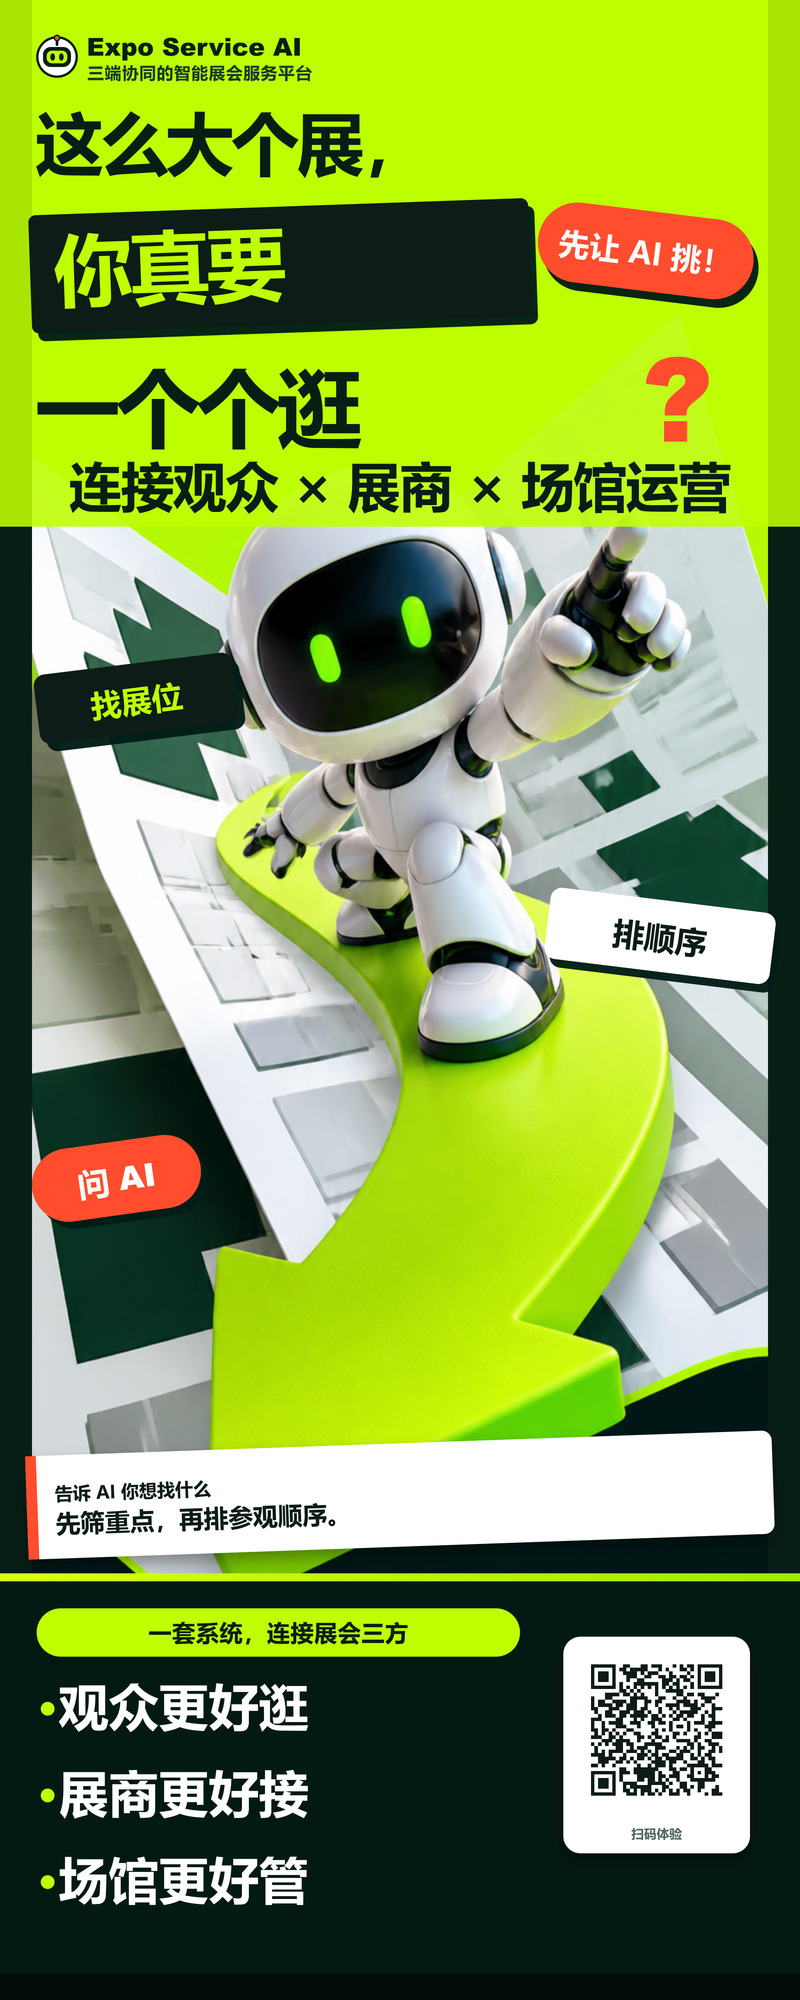
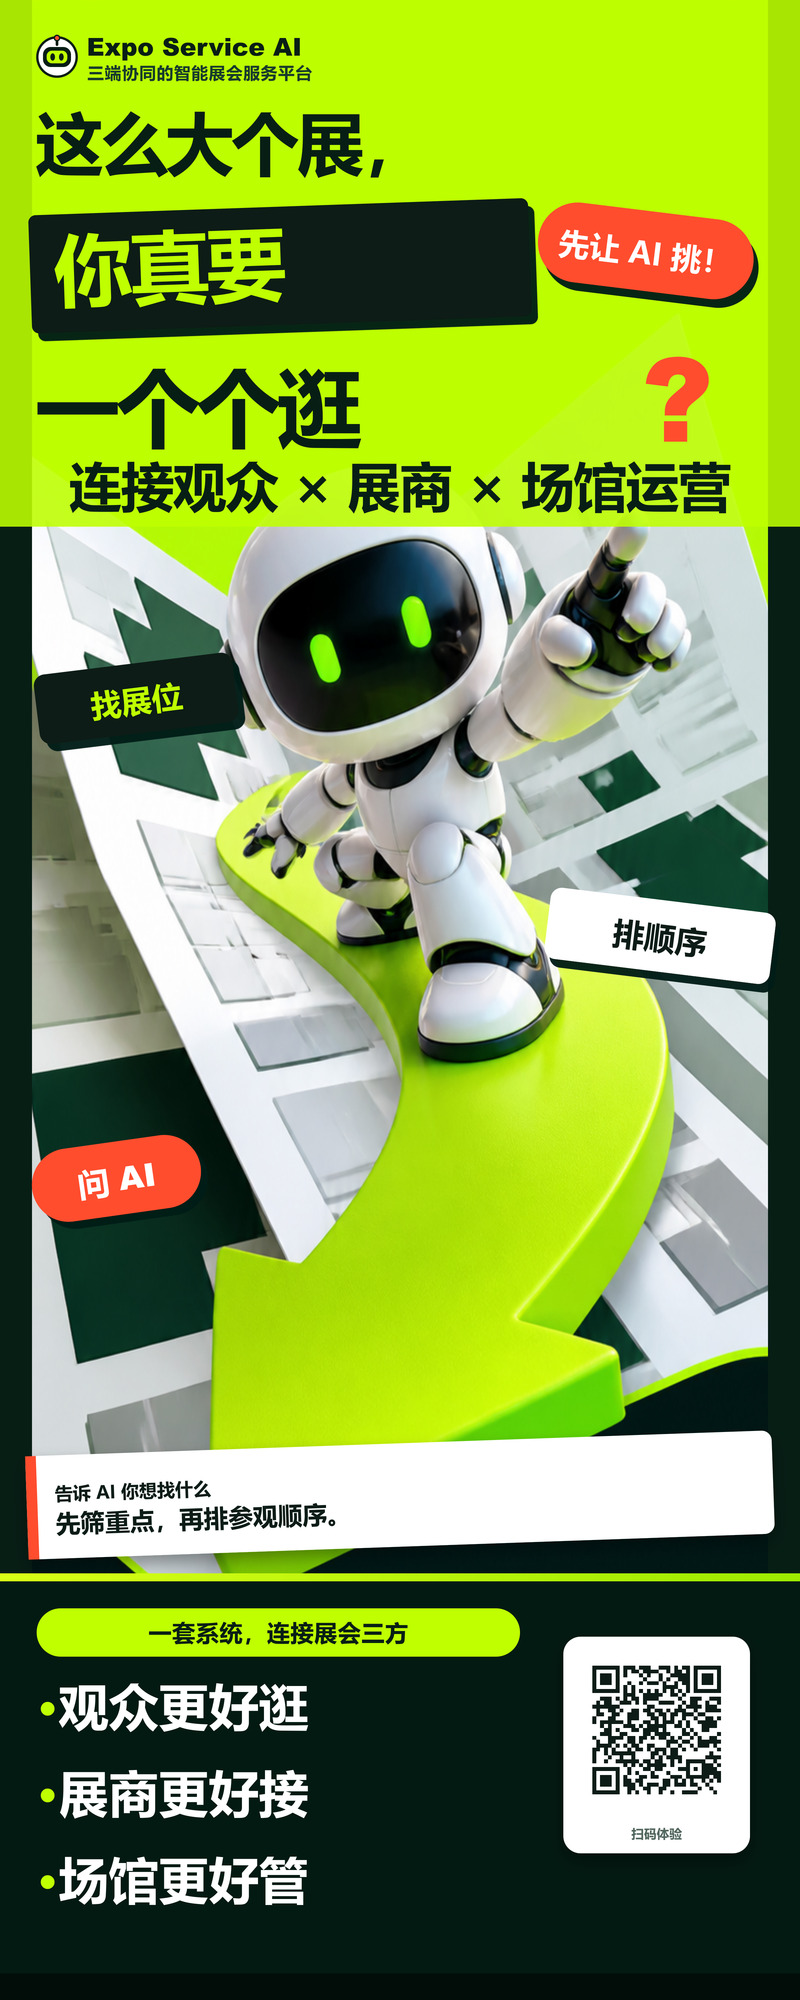
fix: update QR destination to chencheng expo

Changed region(s): [[0.7188, 0.806, 0.9062, 0.899]]

diff --git a/brand/rollup-banner/README.md b/brand/rollup-banner/README.md
@@ -22,7 +22,7 @@ The `rollup-pop-v2` files are the high-attention event-floor variant. They repla
 
 ## Verified QR variant
 
-The `rollup-pop-v2-qr` files are the print-ready campaign variant with a verified, high-error-correction QR code. The code resolves to `https://chencheng-speedtest.pages.dev/` and was decoded again from the final rendered banner after export.
+The `rollup-pop-v2-qr` files are the print-ready campaign variant with a verified, high-error-correction QR code. The code resolves to `https://chencheng-expo.pages.dev/` and was decoded again from the final rendered banner after export.
 
 - `Expo-Service-AI-rollup-pop-v2-qr.svg`: editable vector source;
 - `Expo-Service-AI-rollup-pop-v2-qr.png`: 2400 × 6000 production raster;
